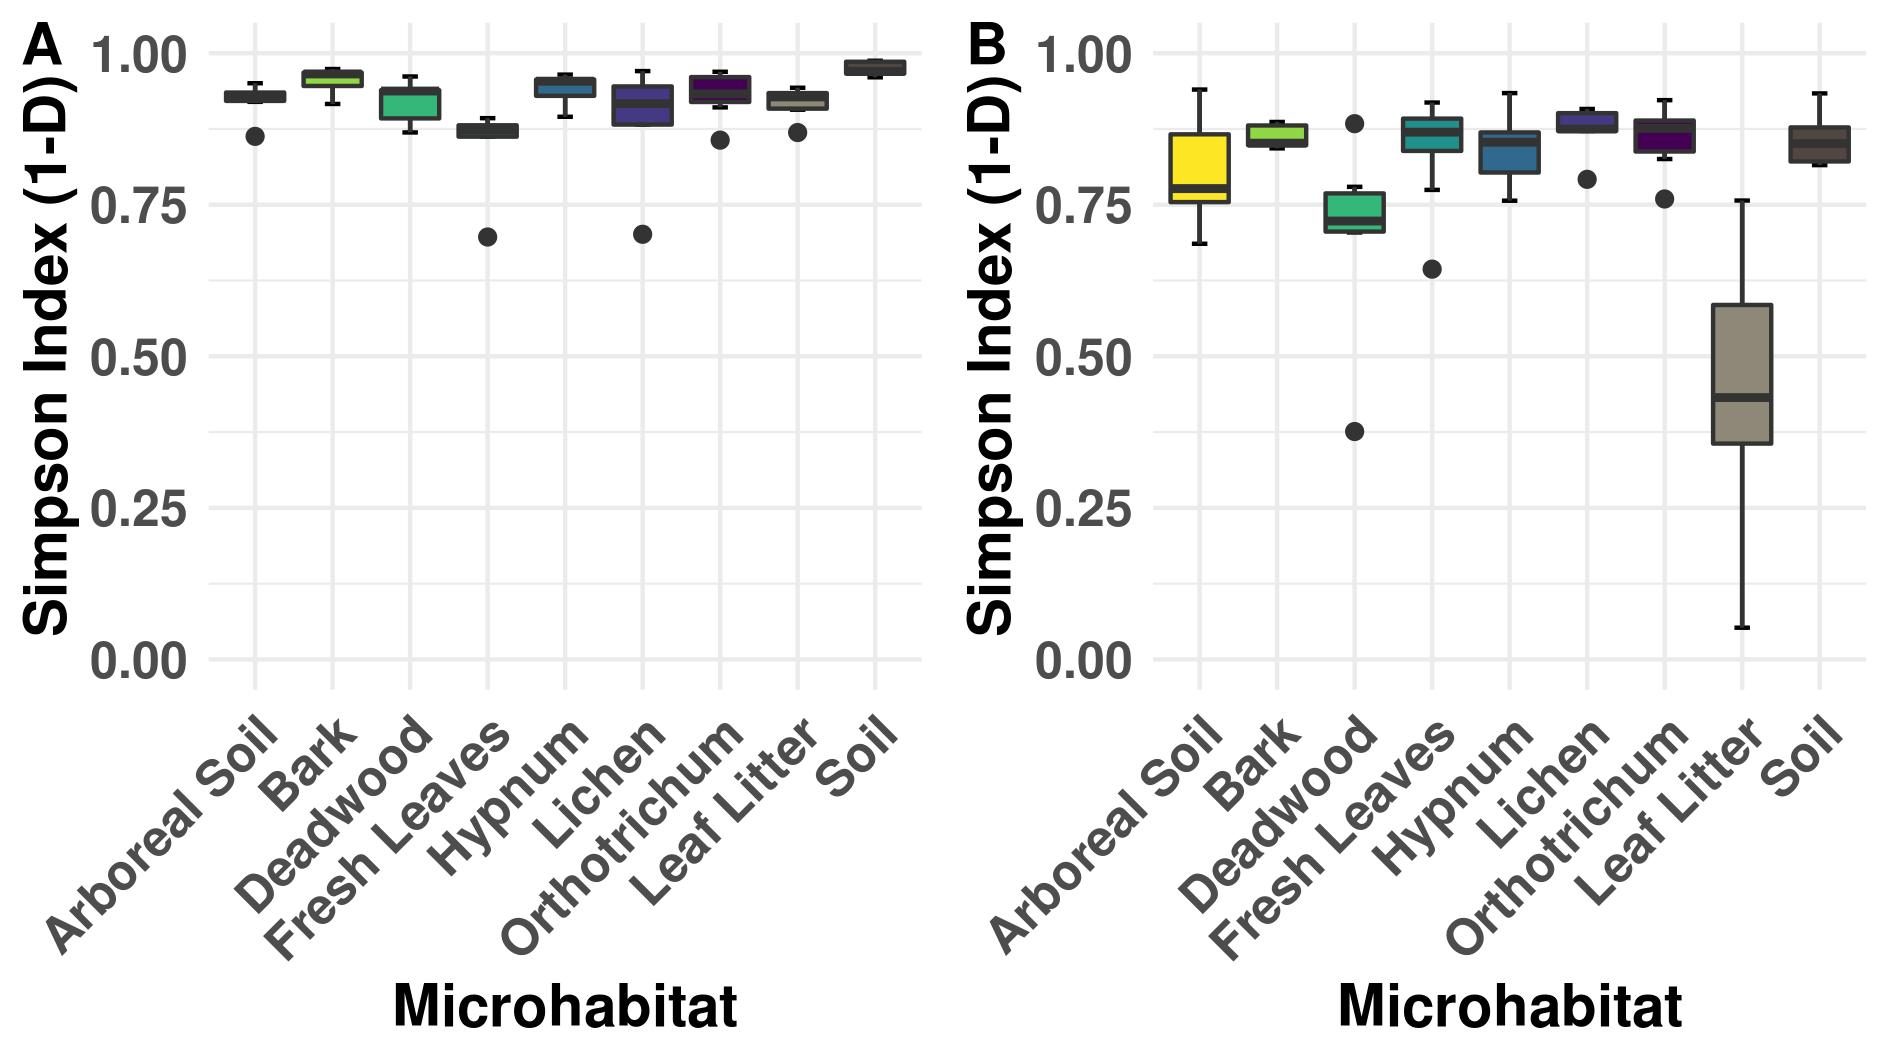
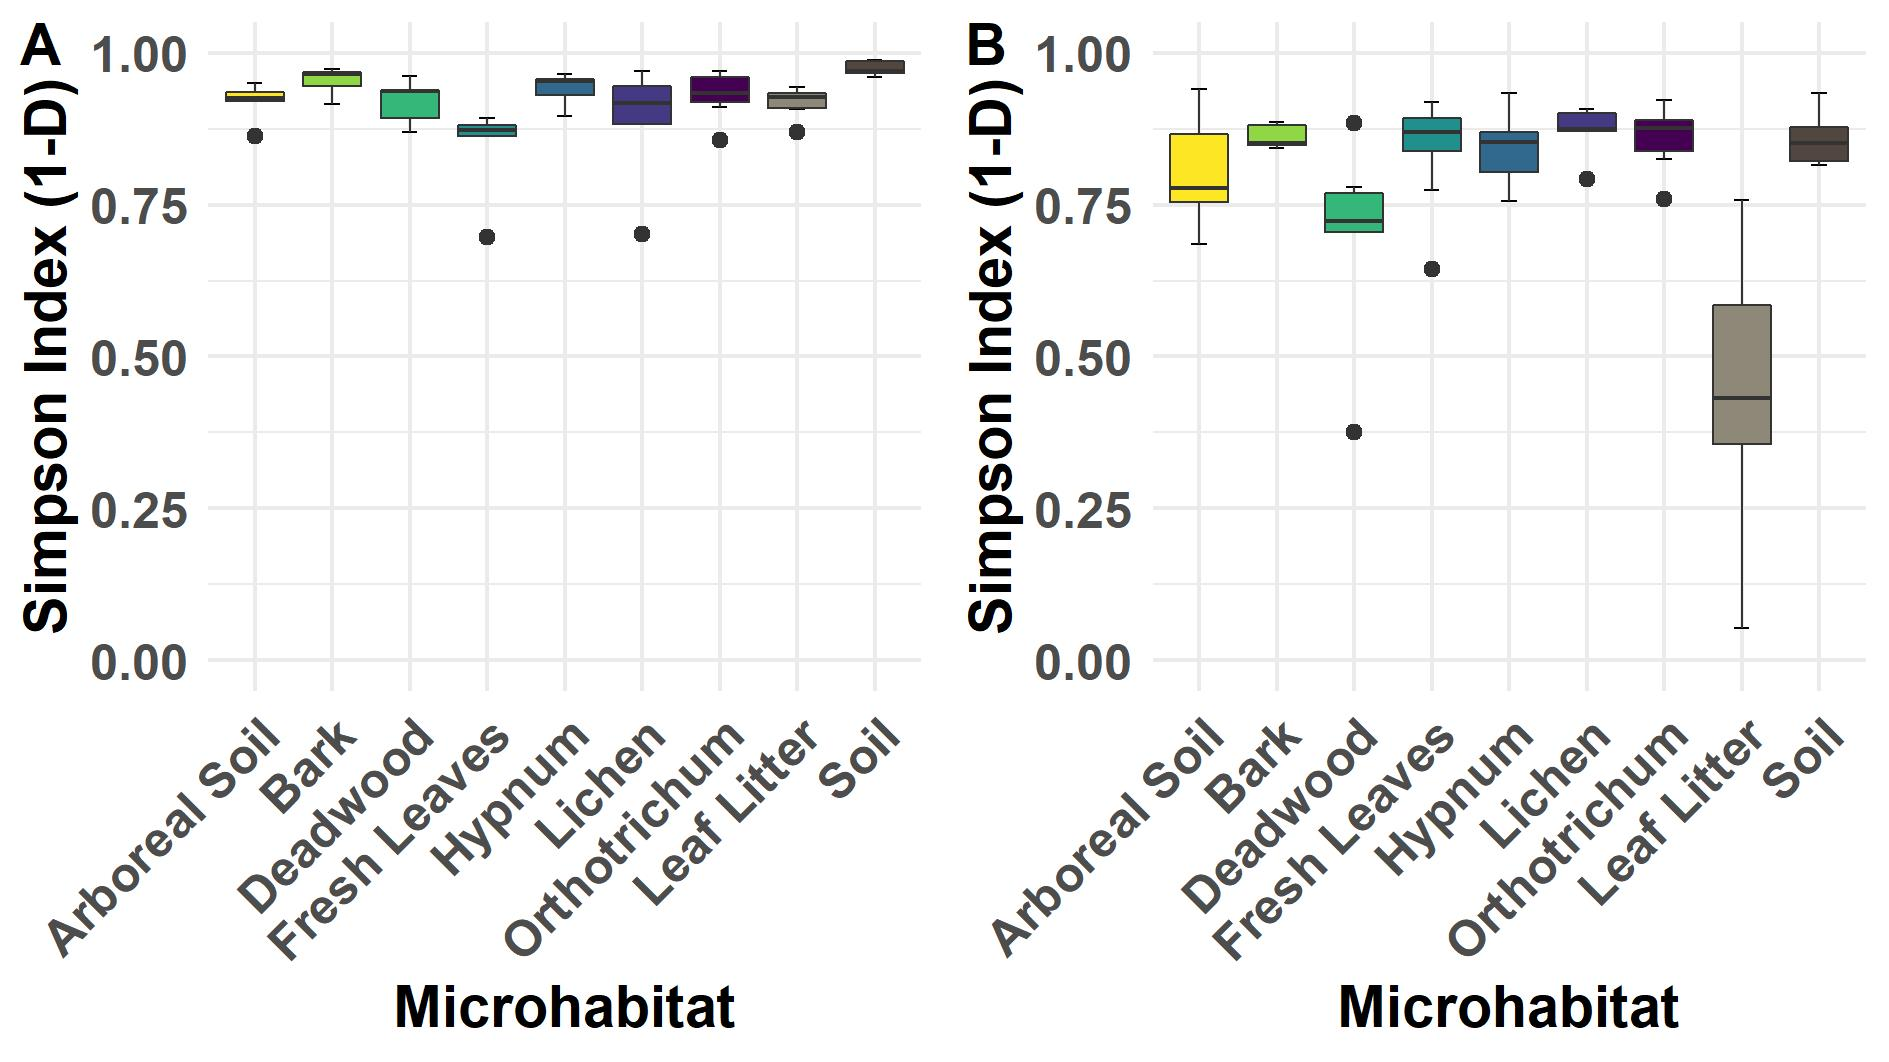
Adjusted line width in boxplots

diff --git a/04_Alpha_Diversity/AlphaBoxplot.md b/04_Alpha_Diversity/AlphaBoxplot.md
@@ -1,10 +1,12 @@
 Plot alpha diversity indices in a boxplot
 ================
 
-After checking the rarefaction and species richness, we can also check other alpha diversity measurements. Here, we use the Simpson index, which we calculate with the `vegan` package and visualise the diversity in a boxplot.
+After checking the rarefaction and species richness, we can also check
+other alpha diversity measurements. Here, we use the Simpson index,
+which we calculate with the `vegan` package and visualise the diversity
+in a boxplot.
 
-Load Data
----------
+## Load Data
 
 ``` r
 rm(list = ls())
@@ -28,10 +30,11 @@ TreeSpecies = SampleMetadata$TreeSpecies
 OTU_Table = OTU_Table[,6:ncol(OTU_Table)]
 ```
 
-Calculate Alpha Diversity
--------------------------
+## Calculate Alpha Diversity
 
-To run the diversity analyses, simply load the table and specify the `index` - in this case: The Simpson index. Then convert it into a dataframe and add the metadata and group.
+To run the diversity analyses, simply load the table and specify the
+`index` - in this case: The Simpson index. Then convert it into a
+dataframe and add the metadata and group.
 
 ``` r
 simpson = diversity(OTU_Table, index = "simpson")
@@ -42,15 +45,15 @@ simpson$Group = "Oomycota"
 #simpson$TreeSpecies = TreeSpecies
 ```
 
-Plot the Figure
----------------
+## Plot the Figure
 
-Now we put the diverity measurements into a habitat specific context. It can be easiest visualised in a boxplot:
+Now we put the diverity measurements into a habitat specific context. It
+can be easiest visualised in a boxplot:
 
 ``` r
 g = ggplot(simpson, aes(x = Microhabitat, y = simpson, fill = Microhabitat)) + 
-  stat_boxplot(geom = "errorbar", width = 0.2, show.legend = F) +
-  geom_boxplot(show.legend = F) + 
+  stat_boxplot(geom = "errorbar", width = 0.2, show.legend = F, lwd = 0.25) +
+  geom_boxplot(show.legend = F, lwd = 0.25) + 
   scale_fill_manual(values = c(viridis(7, direction = -1), 
                                "#8e8878", "#524640"), 
                     limits = c("Arboreal Soil", "Bark", "Deadwood", 
@@ -79,14 +82,16 @@ g = ggplot(simpson, aes(x = Microhabitat, y = simpson, fill = Microhabitat)) +
 g
 ```
 
-![](AlphaBoxplot_files/figure-markdown_github/OomycotaAlphaBoxPlot-1.png)
+![](AlphaBoxplot_files/figure-gfm/OomycotaAlphaBoxPlot-1.png)<!-- -->
 
-All samples show a very high diversity. Only some of the leaf litter samples have a quite low alpha diversity. This could maybe be due to the lifestyle of some oomycetes: Saprotrophic oomycetes could experience a strong competition in this habitat.
+All samples show a very high diversity. Only some of the leaf litter
+samples have a quite low alpha diversity. This could maybe be due to the
+lifestyle of some oomycetes: Saprotrophic oomycetes could experience a
+strong competition in this habitat.
 
-Cercozoa
---------
+## Cercozoa
 
-Let's check if the Cercozoa show a similar pattern:
+Let’s check if the Cercozoa show a similar pattern:
 
 ``` r
 Cerco_OTU_Table = as.data.frame(read.csv("../00_Data/Cercozoa/05_Cercozoa_OwnSamples_OTU_Table_min-freq-15684_transposed_withMetadata.tsv", 
@@ -106,13 +111,12 @@ Cerco_simpson$Microhabitat = Cerco_Microhabitat
 Cerco_simpson$Group = "Cercozoa"
 ```
 
-Plot Cercozoa Figure
---------------------
+## Plot Cercozoa Figure
 
 ``` r
 g_cerco = ggplot(Cerco_simpson, aes(x = Microhabitat, y = simpson, fill = Microhabitat)) + 
-  stat_boxplot(geom = "errorbar", width = 0.2, show.legend = F) +
-  geom_boxplot(show.legend = F) + 
+  stat_boxplot(geom = "errorbar", width = 0.2, show.legend = F, lwd = 0.25) +
+  geom_boxplot(show.legend = F, lwd = 0.25) + 
   scale_fill_manual(values = c(viridis(7, direction = -1), 
                                "#8e8878", "#524640"), 
                     limits = c("Arboreal Soil", "Bark", "Deadwood", 
@@ -137,9 +141,11 @@ g_cerco = ggplot(Cerco_simpson, aes(x = Microhabitat, y = simpson, fill = Microh
 g_cerco
 ```
 
-![](AlphaBoxplot_files/figure-markdown_github/CercoAlphaBoxPlot-1.png)
+![](AlphaBoxplot_files/figure-gfm/CercoAlphaBoxPlot-1.png)<!-- -->
 
-For the cercozoa, all samples show an even higher diversity. That's interesting. We could also plot both groups next to each other for a direct comparison, like this:
+For the cercozoa, all samples show an even higher diversity. That’s
+interesting. We could also plot both groups next to each other for a
+direct comparison, like this:
 
 ``` r
 simpson_both = rbind(simpson, Cerco_simpson)
@@ -170,17 +176,14 @@ g_both = ggplot(simpson_both, aes(x = Microhabitat, y = simpson, fill = Microhab
         plot.subtitle = element_text(size = 14, hjust = 0.5), 
         legend.text = element_text(size = 12), 
         legend.title = element_text(size = 14, face = "bold"))
-```
 
-    ## Warning: `expand_scale()` is deprecated; use `expansion()` instead.
-
-``` r
 g_both
 ```
 
-![](AlphaBoxplot_files/figure-markdown_github/CombinedAlphaBoxplot-1.png)
+![](AlphaBoxplot_files/figure-gfm/CombinedAlphaBoxplot-1.png)<!-- -->
 
-For the final visualisation, we combine the two plots not within the same plot like above, but next to each other:
+For the final visualisation, we combine the two plots not within the
+same plot like above, but next to each other:
 
 ``` r
 g$theme$axis.text.x$angle = 45
@@ -218,4 +221,4 @@ ggsave("AlphaBoxplotCombined.pdf", plot = combi,
 combi
 ```
 
-![](AlphaBoxplot_files/figure-markdown_github/unnamed-chunk-1-1.png)
+![](AlphaBoxplot_files/figure-gfm/unnamed-chunk-1-1.png)<!-- -->
